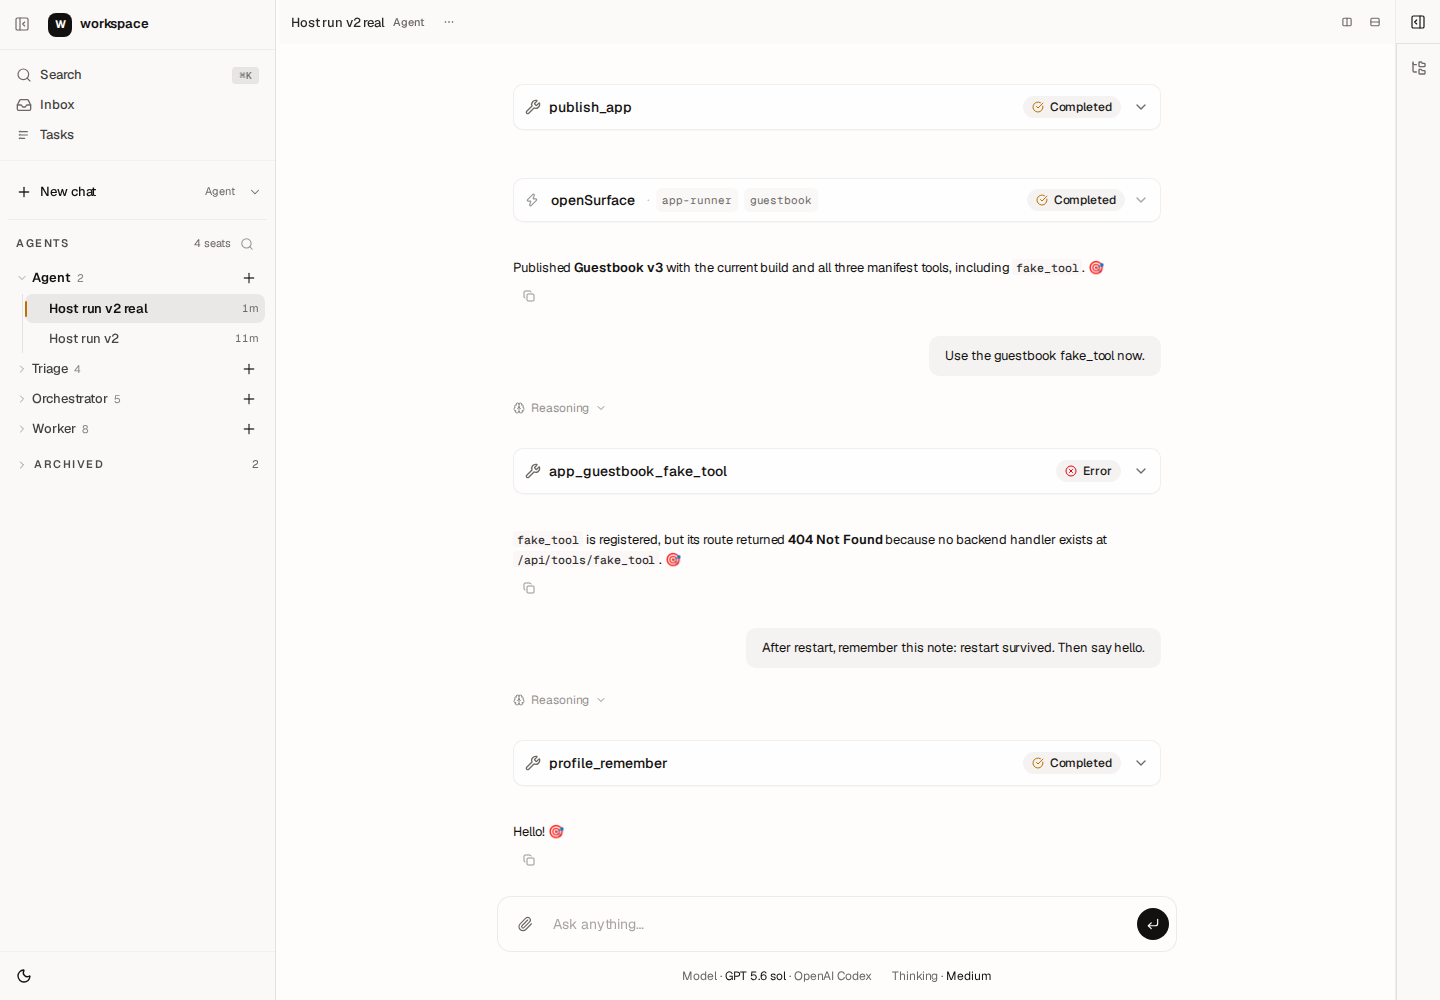
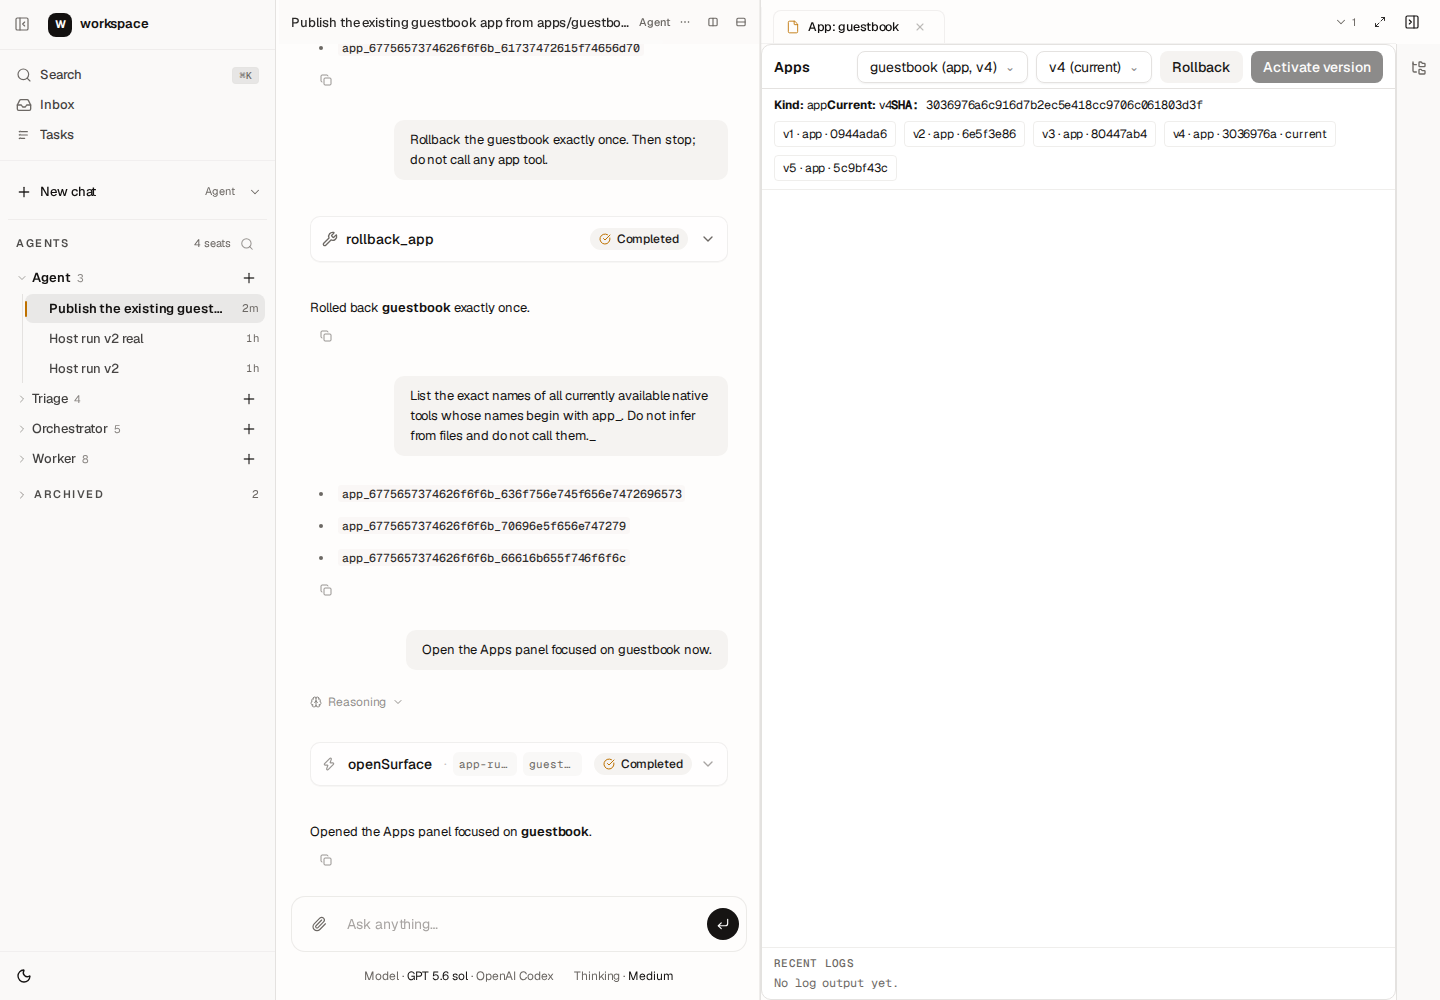
app-runner: capture corrected live host evidence

diff --git a/.artifacts/HOST-RUN.md b/.artifacts/HOST-RUN.md
@@ -75,18 +75,33 @@ Hello! 🎯
 
 Transcript: `chat-step-g.json`.
 
+## Astra evidence rerun — PASS
+
+After the fixes, both processes were stopped and restarted without clearing durable state. `restart-receipts.txt` records the old host process IDs, the new hub PID, and the two host startup/ready timestamps. The real Agent session remained usable after the second host restart.
+
+For the rollback inventory proof, version 5 added one temporary published manifest tool. `fix-inventory-v5b.json` captures the four tools advertised before rollback, including:
+
+```text
+app_6775657374626f6f6b_61737472615f74656d70
+```
+
+`fix-rollback-v4.json` captures the native `rollback_app` call. On the next turn, `fix-inventory-v4.json` captures only the three version-4 tools; the temporary tool is absent. This is the actual before/after inventory, not an assistant inference from draft files.
+
+The first rerun exposed duplicate legacy JSON-store keys that prevented a newly published tool from refreshing. Commit `b7a9c57` normalizes those keys, keeps the newest record, and adds a regression test. The successful inventory above was captured after rebuilding and restarting with that fix.
+
 ## Screenshot
 
-Playwright was available. Screenshot: `apps-panel.png`. It captures the live host after restart with published native tool calls, profile behavior, and the app-runner surface command in the transcript.
+Playwright opened the `app-runner` surface through the UI bridge and captured the actual Apps panel in `.artifacts/apps-panel.png`. The image shows guestbook current at v4, versions v1–v5, rollback/activate controls, SHA metadata, iframe area, and recent logs.
 
 ## Verification summaries
 
-- `pnpm --filter @hachej/boring-app-runner test`: **PASS**, 4 files / 10 tests.
+- `pnpm --filter @hachej/boring-app-runner test`: **PASS**, 10 files / 31 tests.
 - `pnpm --filter @hachej/boring-app-runner typecheck`: **PASS**.
 - `pnpm --dir packages/workspace exec vitest run src/server/__tests__/bootstrapServer.test.ts --no-file-parallelism`: **PASS**, 40 tests.
-- Workspace full test attempt: **2323 passed, 11 skipped, 2 unrelated failures** (missing pnpm-linked `@hachej/boring-bi-dashboard`; an async chat-loading timing test). See console run; neither failure touches this change.
-- Playground `dev` full dependency build: **BLOCKED by pre-existing `@hachej/boring-core` Fastify declaration incompatibilities**. Required affected packages were built individually and `dev:app` completed; the live run above used that real server.
-- `pnpm typecheck`: **BLOCKED by unrelated existing `plugins/generated-pane` TS2883 portable declaration errors**; full output saved in `typecheck.log`.
+- Hub `node app-runner/scripts/e2e-test.mjs`: **OVERALL: PASS**, including credential non-disclosure and failed-migration HTTP status/storage checks.
+- `pnpm typecheck:changed`: **BLOCKED before typecheck by the existing `plugins/generated-pane` TS2883 declaration-build errors**.
+- `pnpm test:changed`: **BLOCKED before tests by the same existing `plugins/generated-pane` TS2883 declaration-build errors**.
+- `git diff --check` in both repositories: **PASS**.
 
 ## Owner ruling needed
 
